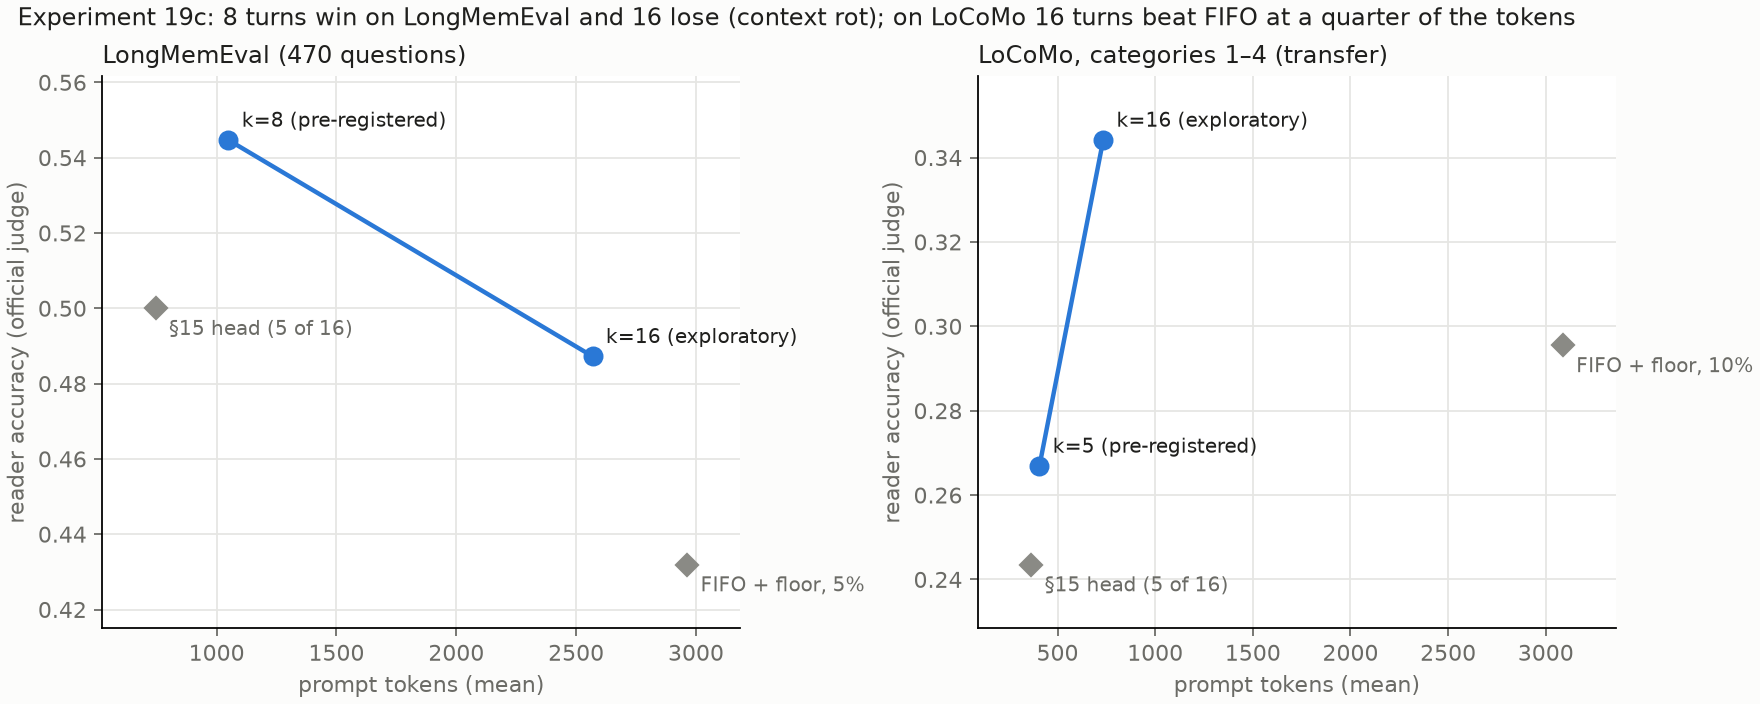
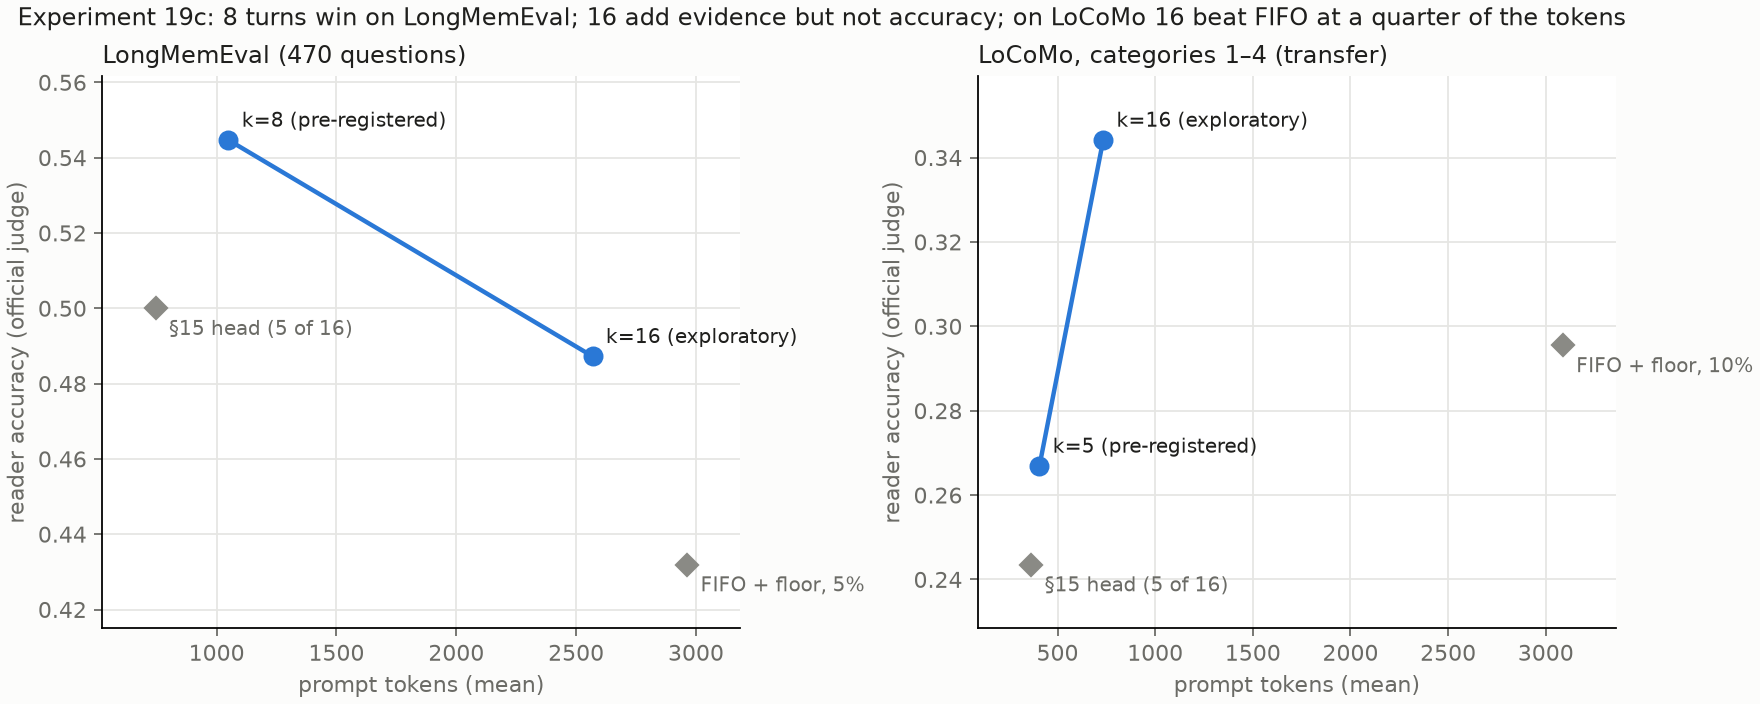
Outline headline and §19c figure title: sixteen turns add evidence and did not add accuracy (after §19d)

Changed region(s): [[0.3125, 0.0, 0.9375, 0.0625]]

diff --git a/docs/research/THESIS_RESULTS_OUTLINE.md b/docs/research/THESIS_RESULTS_OUTLINE.md
@@ -22,7 +22,7 @@ Draft of 2026-10-07. Every number here is in EXPERIMENTS.md, cited by section.
 
 On real long conversations with a searchable archive, the only learned decision that pays is query-aware: which
 few retrieved turns the reader sees. A query-aware selector that shows the reader eight relevant turns beats the
-five-turn selector, and beats FIFO at a third of FIFO's tokens. Showing sixteen adds evidence and loses accuracy.
+five-turn selector, and beats FIFO at a third of FIFO's tokens. Showing sixteen adds evidence and did not add accuracy.
 - A ~27k-parameter head, trained by imitation of gold evidence, picks 5 of 16 search candidates at the question.
 - It beats the best simple rule, keep-last-0 + top 5, with the 7B reader: **0.513 against 0.466** judge accuracy
   at **745 against 1,554** prompt tokens (Experiment 15b).
